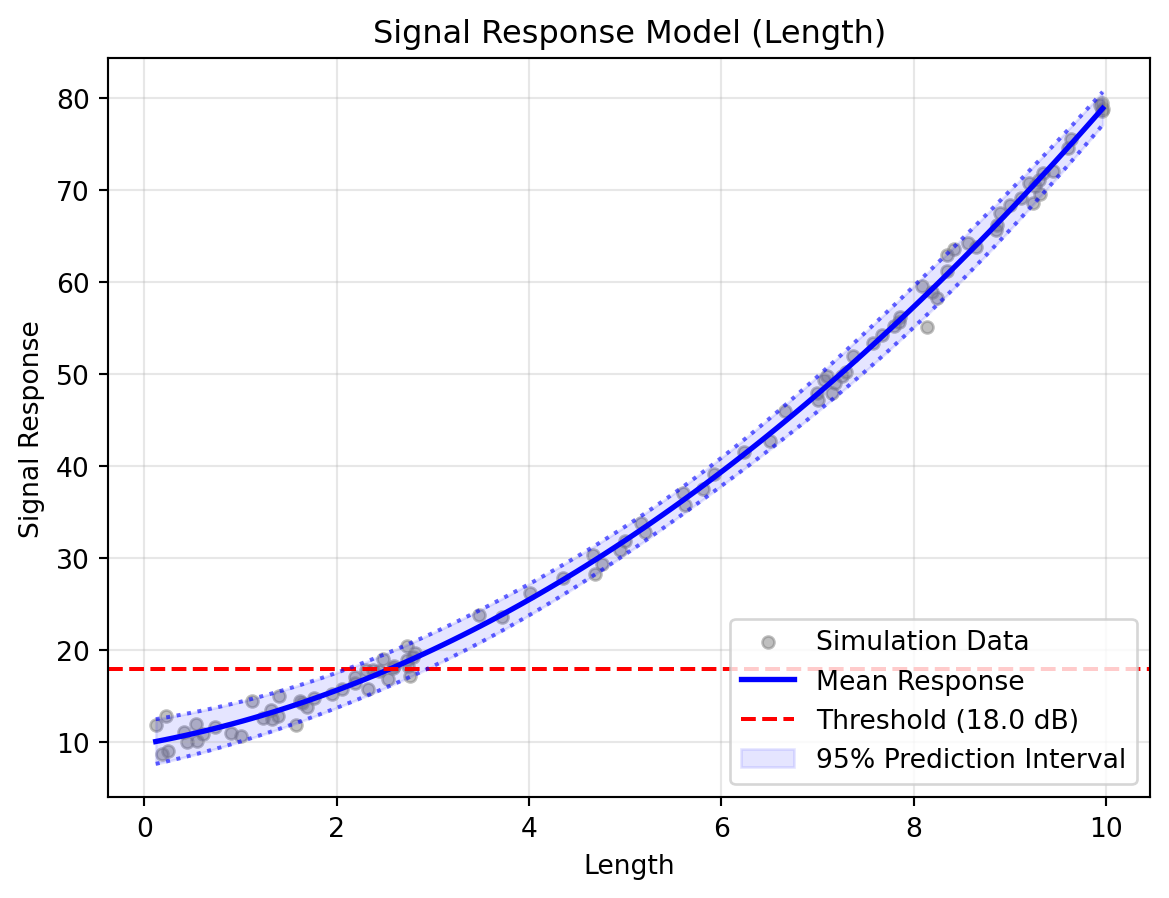
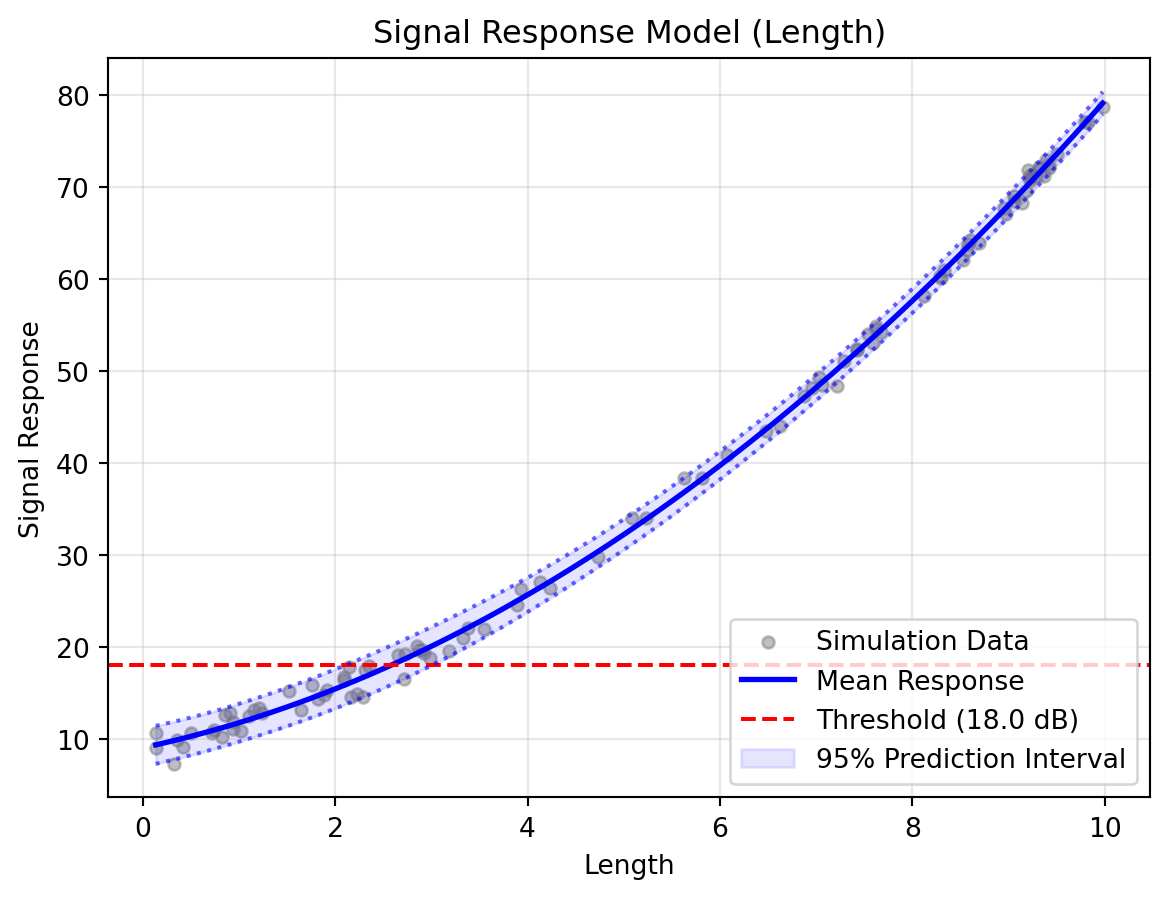
Built site for gh-pages

diff --git a/docs/optimisation.html b/docs/optimisation.html
@@ -305,7 +305,7 @@ pre > code.sourceCode > span > a:first-child::before { text-decoration: underlin
 <h3 class="anchored" data-anchor-id="define-a-mock-solver">1. Define a “Mock” Solver</h3>
 <p>For this tutorial, we will use a Python one-liner as our “solver” instead of a complex physics engine. We use <code>python -c</code> to run this as if it were an external Command Line Interface (CLI) tool.</p>
 <p>Notice how the <code>SOLVER_CMD</code> utilises the <code>{input}</code> and <code>{output}</code> placeholders.</p>
-<div id="50af2d2f" class="cell" data-execution_count="1">
+<div id="2e63fc9c" class="cell" data-execution_count="1">
 <div class="code-copy-outer-scaffold"><div class="sourceCode cell-code" id="cb1"><pre class="sourceCode python code-with-copy"><code class="sourceCode python"><span id="cb1-1"><a href="#cb1-1" aria-hidden="true" tabindex="-1"></a><span class="im">import</span> sys</span>
 <span id="cb1-2"><a href="#cb1-2" aria-hidden="true" tabindex="-1"></a></span>
 <span id="cb1-3"><a href="#cb1-3" aria-hidden="true" tabindex="-1"></a><span class="co"># A complex, non-linear physics model to trigger multiple optimisation loops</span></span>
@@ -321,7 +321,7 @@ pre > code.sourceCode > span > a:first-child::before { text-decoration: underlin
 <section id="configure-the-study" class="level3">
 <h3 class="anchored" data-anchor-id="configure-the-study">2. Configure the Study</h3>
 <p>We define our input variables and the ranges we want to explore.</p>
-<div id="e3b50d11" class="cell" data-execution_count="2">
+<div id="d154d5e4" class="cell" data-execution_count="2">
 <div class="code-copy-outer-scaffold"><div class="sourceCode cell-code" id="cb2"><pre class="sourceCode python code-with-copy"><code class="sourceCode python"><span id="cb2-1"><a href="#cb2-1" aria-hidden="true" tabindex="-1"></a><span class="im">from</span> digiqual.core <span class="im">import</span> SimulationStudy</span>
 <span id="cb2-2"><a href="#cb2-2" aria-hidden="true" tabindex="-1"></a></span>
 <span id="cb2-3"><a href="#cb2-3" aria-hidden="true" tabindex="-1"></a><span class="co"># Define inputs ranges</span></span>
@@ -341,7 +341,7 @@ pre > code.sourceCode > span > a:first-child::before { text-decoration: underlin
 <li><strong>Refinement (Decide &amp; Act):</strong> If diagnostics fail, generates a targeted batch of 10 new points (<code>n_step=10</code>) focusing on weak areas and repeats the loop (up to <code>max_iter=5</code> times).</li>
 <li><strong>Safety Stop:</strong> Checks the elapsed time against <code>max_hours</code> to ensure the loop stops safely if the physical time limit is reached.</li>
 </ol>
-<div id="fd0aa9ff" class="cell" data-execution_count="3">
+<div id="a82c8de2" class="cell" data-execution_count="3">
 <div class="code-copy-outer-scaffold"><div class="sourceCode cell-code" id="cb3"><pre class="sourceCode python code-with-copy"><code class="sourceCode python"><span id="cb3-1"><a href="#cb3-1" aria-hidden="true" tabindex="-1"></a>study.optimise(</span>
 <span id="cb3-2"><a href="#cb3-2" aria-hidden="true" tabindex="-1"></a>    command<span class="op">=</span>SOLVER_CMD,</span>
 <span id="cb3-3"><a href="#cb3-3" aria-hidden="true" tabindex="-1"></a>    ranges<span class="op">=</span>ranges,</span>
@@ -359,32 +359,18 @@ pre > code.sourceCode > span > a:first-child::before { text-decoration: underlin
    -&gt; Executing: /Users/jt17630/Documents/DigiQual/.venv/bin/python3 -c 'import pandas as pd, numpy as np; df=pd.read_csv("sim_input.csv"); df["Signal"] = 5 + df["Length"] ** 3 + (df["Length"] * np.random.normal(0, 1, len(df))); df.to_csv("sim_output.csv", index=False)'
 
 --- Iteration 1: Diagnostics Check ---
-&gt;&gt; Model invalid. Refining design...
-Diagnostics flagged issues. Initiating Active Learning...
- -&gt; Strategy: Exploitation (Targeting high uncertainty regions)
---- Running Batch 1 (10 points) ---
-   -&gt; Executing: /Users/jt17630/Documents/DigiQual/.venv/bin/python3 -c 'import pandas as pd, numpy as np; df=pd.read_csv("sim_input.csv"); df["Signal"] = 5 + df["Length"] ** 3 + (df["Length"] * np.random.normal(0, 1, len(df))); df.to_csv("sim_output.csv", index=False)'
-
---- Iteration 2: Diagnostics Check ---
-&gt;&gt; Model invalid. Refining design...
-Diagnostics flagged issues. Initiating Active Learning...
- -&gt; Strategy: Exploitation (Targeting high uncertainty regions)
---- Running Batch 2 (10 points) ---
-   -&gt; Executing: /Users/jt17630/Documents/DigiQual/.venv/bin/python3 -c 'import pandas as pd, numpy as np; df=pd.read_csv("sim_input.csv"); df["Signal"] = 5 + df["Length"] ** 3 + (df["Length"] * np.random.normal(0, 1, len(df))); df.to_csv("sim_output.csv", index=False)'
-
---- Iteration 3: Diagnostics Check ---
 
 &gt;&gt;&gt; CONVERGENCE REACHED! &lt;&lt;&lt;
 
 ----------------------------------------
 &gt;&gt;&gt; SEARCH COMPLETE &lt;&lt;&lt;
-Total Time:      0.02 minutes
-Successful Runs: 40
+Total Time:      0.00 minutes
+Successful Runs: 20
 Failed Runs:     0 (in graveyard)
-Total Attempted: 40
+Total Attempted: 20
 ----------------------------------------
 
-Data updated. Total rows: 40</code></pre>
+Data updated. Total rows: 20</code></pre>
 </div>
 </div>
 </section>
@@ -399,19 +385,19 @@ Data updated. Total rows: 40</code></pre>
 <div aria-describedby="fig-optimisation-results-caption-0ceaefa1-69ba-4598-a22c-09a6ac19f8ca">
 <div class="quarto-layout-row">
 <div class="cell-output cell-output-stdout quarto-layout-cell" style="flex-basis: 100.0%;justify-content: flex-start;">
-<pre><code>Total Simulations Run: 40
+<pre><code>Total Simulations Run: 20
 Running validation...
-Validation passed. 40 valid rows ready.
+Validation passed. 20 valid rows ready.
 --- Starting Reliability Analysis (PoI: Length) ---
 1. Selecting Mean Model (Cross-Validation)...
--&gt; Selected Model: Polynomial (Degree 3)
+-&gt; Selected Model: Kriging (Gaussian Process)
 2. Fitting Variance Model (Kernel Smoothing)...
-   -&gt; Smoothing Bandwidth: 0.4661
+   -&gt; Smoothing Bandwidth: 0.4702
 3. Inferring Error Distribution (AIC)...
-   -&gt; Selected Distribution: norm
+   -&gt; Selected Distribution: gumbel_l
 4. Computing PoD Curve...
 5. Running Bootstrap (1000 iterations)...
-   -&gt; a90/95 Reliability Index: 2.622
+   -&gt; a90/95 Reliability Index: 2.577
 --- Analysis Complete ---</code></pre>
 </div>
 </div>
@@ -434,7 +420,7 @@ Validation passed. 40 valid rows ready.
 <div id="fig-optimisation-results-2" class="quarto-float quarto-figure quarto-figure-center anchored">
 <figure class="quarto-float quarto-subfloat-fig figure">
 <div aria-describedby="fig-optimisation-results-2-caption-0ceaefa1-69ba-4598-a22c-09a6ac19f8ca">
-<img src="optimisation_files/figure-html/fig-optimisation-results-output-3.png" data-ref-parent="fig-optimisation-results" width="593" height="449" class="figure-img">
+<img src="optimisation_files/figure-html/fig-optimisation-results-output-3.png" data-ref-parent="fig-optimisation-results" width="594" height="449" class="figure-img">
 </div>
 <figcaption class="quarto-float-caption-bottom quarto-subfloat-caption quarto-subfloat-fig" id="fig-optimisation-results-2-caption-0ceaefa1-69ba-4598-a22c-09a6ac19f8ca">
 (b) Signal Response Model (Physics)
@@ -448,7 +434,7 @@ Validation passed. 40 valid rows ready.
 <div id="fig-optimisation-results-3" class="quarto-float quarto-figure quarto-figure-center anchored">
 <figure class="quarto-float quarto-subfloat-fig figure">
 <div aria-describedby="fig-optimisation-results-3-caption-0ceaefa1-69ba-4598-a22c-09a6ac19f8ca">
-<img src="optimisation_files/figure-html/fig-optimisation-results-output-4.png" data-ref-parent="fig-optimisation-results" width="589" height="449" class="figure-img">
+<img src="optimisation_files/figure-html/fig-optimisation-results-output-4.png" data-ref-parent="fig-optimisation-results" width="590" height="449" class="figure-img">
 </div>
 <figcaption class="quarto-float-caption-bottom quarto-subfloat-caption quarto-subfloat-fig" id="fig-optimisation-results-3-caption-0ceaefa1-69ba-4598-a22c-09a6ac19f8ca">
 (c) Probability of Detection Curve (Reliability)
@@ -481,7 +467,7 @@ Figure&nbsp;1: Reliability Analysis Results
 <h3 class="anchored" data-anchor-id="example-a-connecting-a-custom-python-model">Example A: Connecting a Custom Python Model</h3>
 <p>Imagine you have an existing Python file (<code>beam_model.py</code>) that contains a complex physics function. You want DigiQual to optimise it.</p>
 <p><strong>1. The Existing Physics Solver (<code>beam_model.py</code>)</strong> This is your actual engineering code. It doesn’t know anything about CSVs or DigiQual.</p>
-<div id="bc3e9218" class="cell" data-execution_count="5">
+<div id="9df8f554" class="cell" data-execution_count="5">
 <div class="code-copy-outer-scaffold"><div class="sourceCode cell-code" id="cb7"><pre class="sourceCode python code-with-copy"><code class="sourceCode python"><span id="cb7-1"><a href="#cb7-1" aria-hidden="true" tabindex="-1"></a><span class="co"># beam_model.py</span></span>
 <span id="cb7-2"><a href="#cb7-2" aria-hidden="true" tabindex="-1"></a><span class="kw">def</span> simulate_beam(length, angle):</span>
 <span id="cb7-3"><a href="#cb7-3" aria-hidden="true" tabindex="-1"></a>    <span class="co">"""A complex, proprietary physics calculation."""</span></span>
@@ -490,7 +476,7 @@ Figure&nbsp;1: Reliability Analysis Results
 <span id="cb7-6"><a href="#cb7-6" aria-hidden="true" tabindex="-1"></a>    <span class="cf">return</span> signal_strength</span></code></pre></div><button title="Copy to Clipboard" class="code-copy-button"><i class="bi"></i></button></div>
 </div>
 <p><strong>2. The Wrapper Script (<code>python_wrapper.py</code>)</strong> This script acts as the bridge. It reads the CSV from the command line arguments, loops through the data to run the solver, and saves the result.</p>
-<div id="1b0c568c" class="cell" data-execution_count="6">
+<div id="311507a0" class="cell" data-execution_count="6">
 <div class="code-copy-outer-scaffold"><div class="sourceCode cell-code" id="cb8"><pre class="sourceCode python code-with-copy"><code class="sourceCode python"><span id="cb8-1"><a href="#cb8-1" aria-hidden="true" tabindex="-1"></a><span class="co"># python_wrapper.py</span></span>
 <span id="cb8-2"><a href="#cb8-2" aria-hidden="true" tabindex="-1"></a><span class="im">import</span> sys</span>
 <span id="cb8-3"><a href="#cb8-3" aria-hidden="true" tabindex="-1"></a><span class="im">import</span> pandas <span class="im">as</span> pd</span>
@@ -519,7 +505,7 @@ Figure&nbsp;1: Reliability Analysis Results
 <span id="cb8-26"><a href="#cb8-26" aria-hidden="true" tabindex="-1"></a>    main()</span></code></pre></div><button title="Copy to Clipboard" class="code-copy-button"><i class="bi"></i></button></div>
 </div>
 <p><strong>3. The DigiQual Command</strong> In your main optimisation script, you define the <code>SOLVER_CMD</code> to call the Python wrapper, passing the placeholders as arguments.</p>
-<div id="40a050b5" class="cell" data-execution_count="7">
+<div id="262c5308" class="cell" data-execution_count="7">
 <div class="code-copy-outer-scaffold"><div class="sourceCode cell-code" id="cb9"><pre class="sourceCode python code-with-copy"><code class="sourceCode python"><span id="cb9-1"><a href="#cb9-1" aria-hidden="true" tabindex="-1"></a><span class="co"># In your main study script</span></span>
 <span id="cb9-2"><a href="#cb9-2" aria-hidden="true" tabindex="-1"></a>SOLVER_CMD <span class="op">=</span> <span class="st">"python python_wrapper.py </span><span class="sc">{input}</span><span class="st"> </span><span class="sc">{output}</span><span class="st">"</span></span>
 <span id="cb9-3"><a href="#cb9-3" aria-hidden="true" tabindex="-1"></a><span class="co"># study.optimise(command=SOLVER_CMD, ...)</span></span></code></pre></div><button title="Copy to Clipboard" class="code-copy-button"><i class="bi"></i></button></div>
@@ -560,7 +546,7 @@ Figure&nbsp;1: Reliability Analysis Results
 <span id="cb11-22"><a href="#cb11-22" aria-hidden="true" tabindex="-1"></a>    <span class="va">exit</span><span class="op">;</span></span>
 <span id="cb11-23"><a href="#cb11-23" aria-hidden="true" tabindex="-1"></a><span class="kw">end</span></span></code></pre></div><button title="Copy to Clipboard" class="code-copy-button"><i class="bi"></i></button></div>
 <p><strong>3. The DigiQual Command</strong> We construct a command that launches MATLAB without the graphical interface (<code>-batch</code>), tells it to run our wrapper, and safely injects the <code>{input}</code> and <code>{output}</code> paths as strings.</p>
-<div id="76c8da9a" class="cell" data-execution_count="8">
+<div id="03875039" class="cell" data-execution_count="8">
 <div class="code-copy-outer-scaffold"><div class="sourceCode cell-code" id="cb12"><pre class="sourceCode python code-with-copy"><code class="sourceCode python"><span id="cb12-1"><a href="#cb12-1" aria-hidden="true" tabindex="-1"></a><span class="co"># In your main study script</span></span>
 <span id="cb12-2"><a href="#cb12-2" aria-hidden="true" tabindex="-1"></a>SOLVER_CMD <span class="op">=</span> <span class="st">"matlab -batch </span><span class="ch">\"</span><span class="st">matlab_wrapper('</span><span class="sc">{input}</span><span class="st">', '</span><span class="sc">{output}</span><span class="st">')</span><span class="ch">\"</span><span class="st">"</span></span>
 <span id="cb12-3"><a href="#cb12-3" aria-hidden="true" tabindex="-1"></a><span class="co"># study.optimise(command=SOLVER_CMD, ...)</span></span></code></pre></div><button title="Copy to Clipboard" class="code-copy-button"><i class="bi"></i></button></div>

diff --git a/docs/qs_class.html b/docs/qs_class.html
@@ -252,7 +252,7 @@ pre > code.sourceCode > span > a:first-child::before { text-decoration: underlin
 <section id="setup-flawed-data-generation" class="level3">
 <h3 class="anchored" data-anchor-id="setup-flawed-data-generation">1. Setup &amp; “Flawed” Data Generation</h3>
 <p>First, we define our physics simulation and create a dataset with a deliberate gap (missing data between 3mm and 7mm).</p>
-<div id="30b7965b" class="cell" data-execution_count="1">
+<div id="45befe21" class="cell" data-execution_count="1">
 <div class="code-copy-outer-scaffold"><div class="sourceCode cell-code" id="cb1"><pre class="sourceCode python code-with-copy"><code class="sourceCode python"><span id="cb1-1"><a href="#cb1-1" aria-hidden="true" tabindex="-1"></a><span class="im">import</span> numpy <span class="im">as</span> np</span>
 <span id="cb1-2"><a href="#cb1-2" aria-hidden="true" tabindex="-1"></a><span class="im">import</span> pandas <span class="im">as</span> pd</span>
 <span id="cb1-3"><a href="#cb1-3" aria-hidden="true" tabindex="-1"></a><span class="im">import</span> matplotlib.pyplot <span class="im">as</span> plt</span>
@@ -312,7 +312,7 @@ pre > code.sourceCode > span > a:first-child::before { text-decoration: underlin
 <section id="diagnosis-detecting-the-issue" class="level3">
 <h3 class="anchored" data-anchor-id="diagnosis-detecting-the-issue">2. Diagnosis (Detecting the Issue)</h3>
 <p>We now ask the study manager to diagnose the health of our experiment. We expect it to flag the Input Coverage test because of the gap we created.</p>
-<div id="41493aa4" class="cell" data-execution_count="2">
+<div id="8f13efd6" class="cell" data-execution_count="2">
 <div class="code-copy-outer-scaffold"><div class="sourceCode cell-code" id="cb3"><pre class="sourceCode python code-with-copy"><code class="sourceCode python"><span id="cb3-1"><a href="#cb3-1" aria-hidden="true" tabindex="-1"></a>study.diagnose()</span></code></pre></div><button title="Copy to Clipboard" class="code-copy-button"><i class="bi"></i></button></div>
 <div class="cell-output cell-output-stdout">
 <pre><code>Running validation...
@@ -341,7 +341,7 @@ Checking sample sufficiency...</code></pre>
 <td>Input Coverage</td>
 <td>Length</td>
 <td>Max Gap Ratio</td>
-<td>0.4283</td>
+<td>0.4308</td>
 <td>&lt; 0.20</td>
 <td>False</td>
 </tr>
@@ -350,7 +350,7 @@ Checking sample sufficiency...</code></pre>
 <td>Input Coverage</td>
 <td>Angle</td>
 <td>Max Gap Ratio</td>
-<td>0.0546</td>
+<td>0.0577</td>
 <td>&lt; 0.20</td>
 <td>True</td>
 </tr>
@@ -359,7 +359,7 @@ Checking sample sufficiency...</code></pre>
 <td>Input Coverage</td>
 <td>Roughness</td>
 <td>Max Gap Ratio</td>
-<td>0.0702</td>
+<td>0.0553</td>
 <td>&lt; 0.20</td>
 <td>True</td>
 </tr>
@@ -368,7 +368,7 @@ Checking sample sufficiency...</code></pre>
 <td>Model Fit (CV)</td>
 <td>Signal</td>
 <td>Mean R2 Score</td>
-<td>0.9961</td>
+<td>0.9982</td>
 <td>&gt; 0.50</td>
 <td>True</td>
 </tr>
@@ -377,7 +377,7 @@ Checking sample sufficiency...</code></pre>
 <td>Bootstrap Convergence</td>
 <td>Signal</td>
 <td>Avg CV (Rel Std Dev)</td>
-<td>0.0227</td>
+<td>0.0167</td>
 <td>&lt; 0.15</td>
 <td>True</td>
 </tr>
@@ -386,7 +386,7 @@ Checking sample sufficiency...</code></pre>
 <td>Bootstrap Convergence</td>
 <td>Signal</td>
 <td>Max CV (Rel Std Dev)</td>
-<td>0.0459</td>
+<td>0.0353</td>
 <td>&lt; 0.30</td>
 <td>True</td>
 </tr>
@@ -400,7 +400,7 @@ Checking sample sufficiency...</code></pre>
 <section id="adaptive-refinement-the-fix" class="level3">
 <h3 class="anchored" data-anchor-id="adaptive-refinement-the-fix">3. Adaptive Refinement (The Fix)</h3>
 <p>Instead of manually guessing where to add points, we use refine(). The study manager automatically detects the gap and generates targeted samples to fill it. In this example, we run the <code>apply_physics()</code> function, but in reality, users should feed the new samples dataframe into their simulation engine to calculate the outcome variable. Users can then add those results into the SimulationStudy class using the <code>add_data()</code> method.</p>
-<div id="c5a93573" class="cell" data-execution_count="3">
+<div id="599e189a" class="cell" data-execution_count="3">
 <div class="code-copy-outer-scaffold"><div class="sourceCode cell-code" id="cb5"><pre class="sourceCode python code-with-copy"><code class="sourceCode python"><span id="cb5-1"><a href="#cb5-1" aria-hidden="true" tabindex="-1"></a><span class="co"># Generate active learning samples (20 points to fill the gap)</span></span>
 <span id="cb5-2"><a href="#cb5-2" aria-hidden="true" tabindex="-1"></a>new_samples <span class="op">=</span> study.refine(n_points<span class="op">=</span><span class="dv">20</span>)</span>
 <span id="cb5-3"><a href="#cb5-3" aria-hidden="true" tabindex="-1"></a></span>
@@ -417,7 +417,7 @@ Data updated. Total rows: 100</code></pre>
 </div>
 </div>
 <p>Now we verify that the issue is resolved:</p>
-<div id="275f9390" class="cell" data-execution_count="4">
+<div id="19681070" class="cell" data-execution_count="4">
 <div class="code-copy-outer-scaffold"><div class="sourceCode cell-code" id="cb7"><pre class="sourceCode python code-with-copy"><code class="sourceCode python"><span id="cb7-1"><a href="#cb7-1" aria-hidden="true" tabindex="-1"></a><span class="co"># Re-run diagnostics to confirm the green light</span></span>
 <span id="cb7-2"><a href="#cb7-2" aria-hidden="true" tabindex="-1"></a>study.diagnose()</span></code></pre></div><button title="Copy to Clipboard" class="code-copy-button"><i class="bi"></i></button></div>
 <div class="cell-output cell-output-stdout">
@@ -447,7 +447,7 @@ Checking sample sufficiency...</code></pre>
 <td>Input Coverage</td>
 <td>Length</td>
 <td>Max Gap Ratio</td>
-<td>0.0681</td>
+<td>0.0500</td>
 <td>&lt; 0.20</td>
 <td>True</td>
 </tr>
@@ -456,7 +456,7 @@ Checking sample sufficiency...</code></pre>
 <td>Input Coverage</td>
 <td>Angle</td>
 <td>Max Gap Ratio</td>
-<td>0.0525</td>
+<td>0.0531</td>
 <td>&lt; 0.20</td>
 <td>True</td>
 </tr>
@@ -465,7 +465,7 @@ Checking sample sufficiency...</code></pre>
 <td>Input Coverage</td>
 <td>Roughness</td>
 <td>Max Gap Ratio</td>
-<td>0.0702</td>
+<td>0.0406</td>
 <td>&lt; 0.20</td>
 <td>True</td>
 </tr>
@@ -474,7 +474,7 @@ Checking sample sufficiency...</code></pre>
 <td>Model Fit (CV)</td>
 <td>Signal</td>
 <td>Mean R2 Score</td>
-<td>0.9959</td>
+<td>0.9980</td>
 <td>&gt; 0.50</td>
 <td>True</td>
 </tr>
@@ -483,7 +483,7 @@ Checking sample sufficiency...</code></pre>
 <td>Bootstrap Convergence</td>
 <td>Signal</td>
 <td>Avg CV (Rel Std Dev)</td>
-<td>0.0169</td>
+<td>0.0148</td>
 <td>&lt; 0.15</td>
 <td>True</td>
 </tr>
@@ -492,7 +492,7 @@ Checking sample sufficiency...</code></pre>
 <td>Bootstrap Convergence</td>
 <td>Signal</td>
 <td>Max CV (Rel Std Dev)</td>
-<td>0.0350</td>
+<td>0.0344</td>
 <td>&lt; 0.30</td>
 <td>True</td>
 </tr>
@@ -515,12 +515,12 @@ Checking sample sufficiency...</code></pre>
 1. Selecting Mean Model (Cross-Validation)...
 -&gt; Selected Model: Polynomial (Degree 2)
 2. Fitting Variance Model (Kernel Smoothing)...
-   -&gt; Smoothing Bandwidth: 0.9843
+   -&gt; Smoothing Bandwidth: 0.9845
 3. Inferring Error Distribution (AIC)...
    -&gt; Selected Distribution: norm
 4. Computing PoD Curve...
 5. Running Bootstrap (1000 iterations)...
-   -&gt; a90/95 Reliability Index: 2.884
+   -&gt; a90/95 Reliability Index: 2.936
 --- Analysis Complete ---</code></pre>
 </div>
 </div>

diff --git a/docs/install.html b/docs/install.html
@@ -230,7 +230,7 @@ pre > code.sourceCode > span > a:first-child::before { text-decoration: underlin
 <h2 class="anchored" data-anchor-id="option-1-install-via-uv-recommended">Option 1: Install via uv (Recommended)</h2>
 <p>If you are managing a project with <code>uv</code>, add <code>digiqual</code> as a dependency:</p>
 <ul>
-<li>To install the latest stable release (v0.13.0):</li>
+<li>To install the latest stable release (v0.13.1):</li>
 </ul>
 <div class="code-copy-outer-scaffold"><div class="sourceCode" id="cb1"><pre class="sourceCode bash code-with-copy"><code class="sourceCode bash"><span id="cb1-1"><a href="#cb1-1" aria-hidden="true" tabindex="-1"></a><span class="ex">uv</span> add <span class="st">"digiqual"</span></span></code></pre></div><button title="Copy to Clipboard" class="code-copy-button"><i class="bi"></i></button></div>
 <ul>
@@ -242,7 +242,7 @@ pre > code.sourceCode > span > a:first-child::before { text-decoration: underlin
 </section>
 <section id="option-2-install-via-standard-pip" class="level2">
 <h2 class="anchored" data-anchor-id="option-2-install-via-standard-pip">Option 2: Install via standard pip</h2>
-<p>To install the latest stable release (v0.13.0):</p>
+<p>To install the latest stable release (v0.13.1):</p>
 <div class="code-copy-outer-scaffold"><div class="sourceCode" id="cb4"><pre class="sourceCode bash code-with-copy"><code class="sourceCode bash"><span id="cb4-1"><a href="#cb4-1" aria-hidden="true" tabindex="-1"></a><span class="ex">pip</span> install digiqual</span></code></pre></div><button title="Copy to Clipboard" class="code-copy-button"><i class="bi"></i></button></div>
 <p>To install the latest development version:</p>
 <div class="code-copy-outer-scaffold"><div class="sourceCode" id="cb5"><pre class="sourceCode bash code-with-copy"><code class="sourceCode bash"><span id="cb5-1"><a href="#cb5-1" aria-hidden="true" tabindex="-1"></a><span class="ex">pip</span> install <span class="st">"git+https://github.com/JGIBristol/digiqual.git"</span></span></code></pre></div><button title="Copy to Clipboard" class="code-copy-button"><i class="bi"></i></button></div>

diff --git a/docs/gui.html b/docs/gui.html
@@ -264,7 +264,7 @@ pre > code.sourceCode > span > a:first-child::before { text-decoration: underlin
 <section id="option-b-from-a-python-script" class="level3">
 <h3 class="anchored" data-anchor-id="option-b-from-a-python-script">Option B: From a Python Script</h3>
 <p>If you are already working inside a Python script or a Jupyter environment, you can launch it locally using the built-in UI function.</p>
-<div id="15225535" class="cell" data-execution_count="1">
+<div id="52e523c7" class="cell" data-execution_count="1">
 <div class="code-copy-outer-scaffold"><div class="sourceCode cell-code" id="cb4"><pre class="sourceCode python code-with-copy"><code class="sourceCode python"><span id="cb4-1"><a href="#cb4-1" aria-hidden="true" tabindex="-1"></a><span class="co"># Launch the local application</span></span>
 <span id="cb4-2"><a href="#cb4-2" aria-hidden="true" tabindex="-1"></a><span class="im">from</span> digiqual <span class="im">import</span> dq_ui</span>
 <span id="cb4-3"><a href="#cb4-3" aria-hidden="true" tabindex="-1"></a></span>
